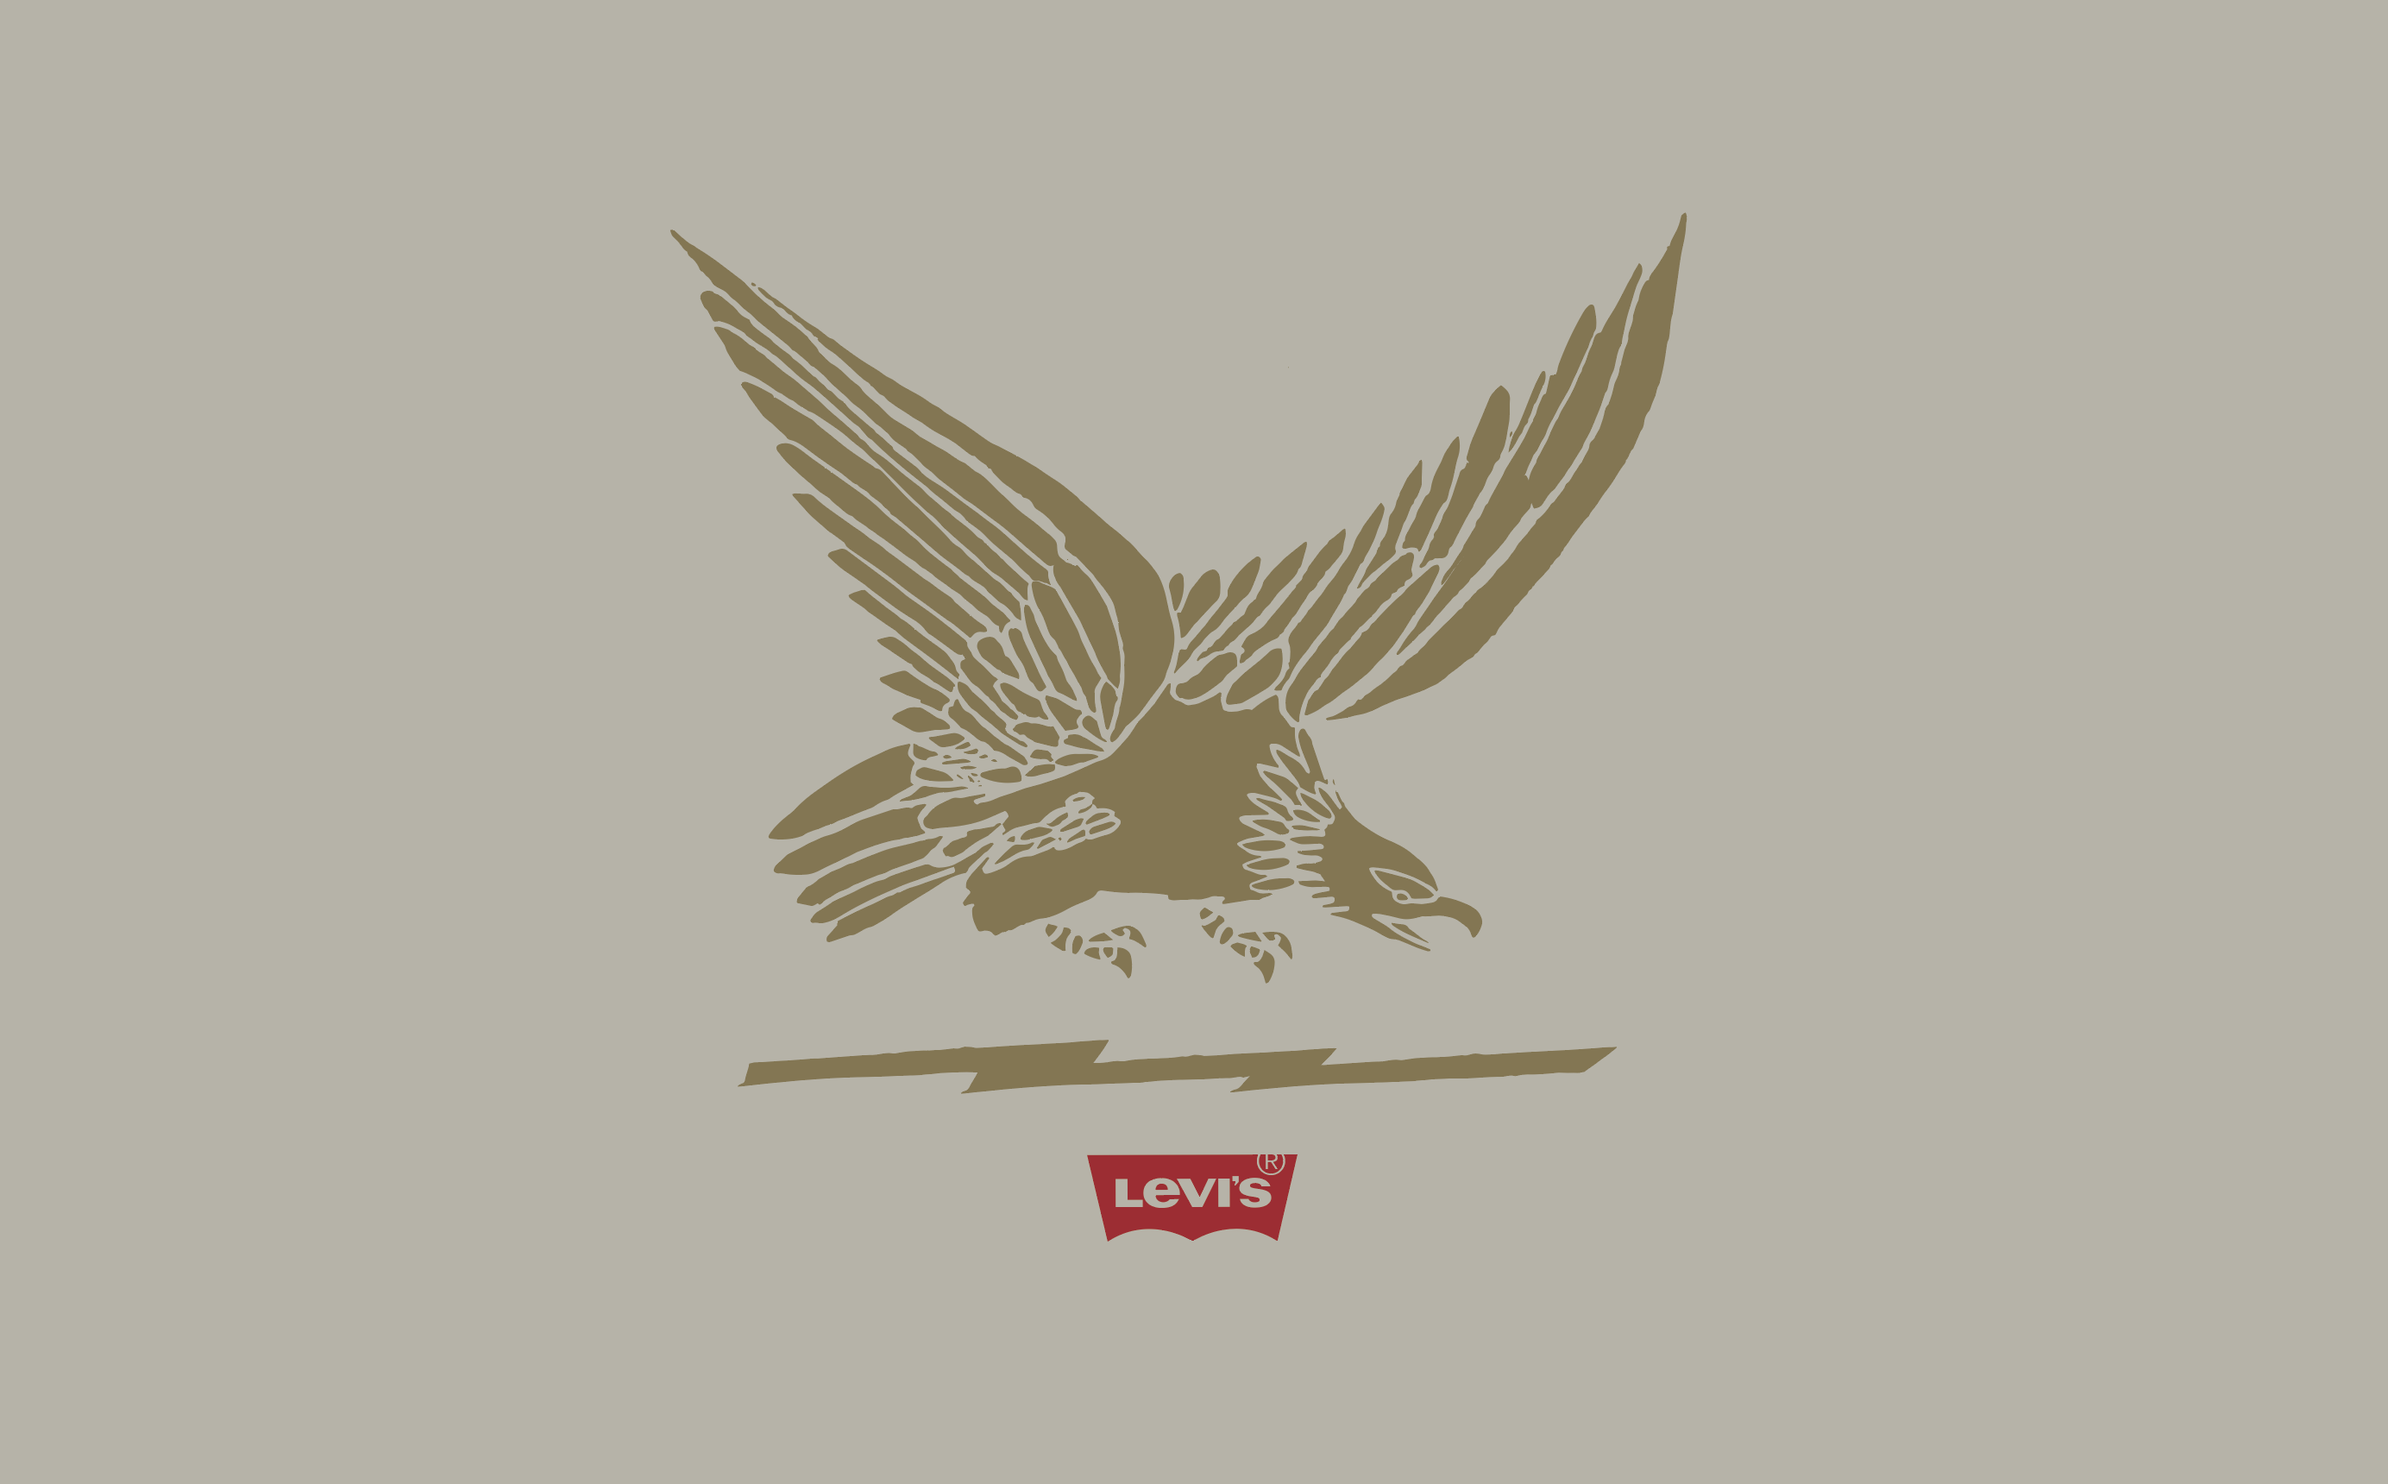
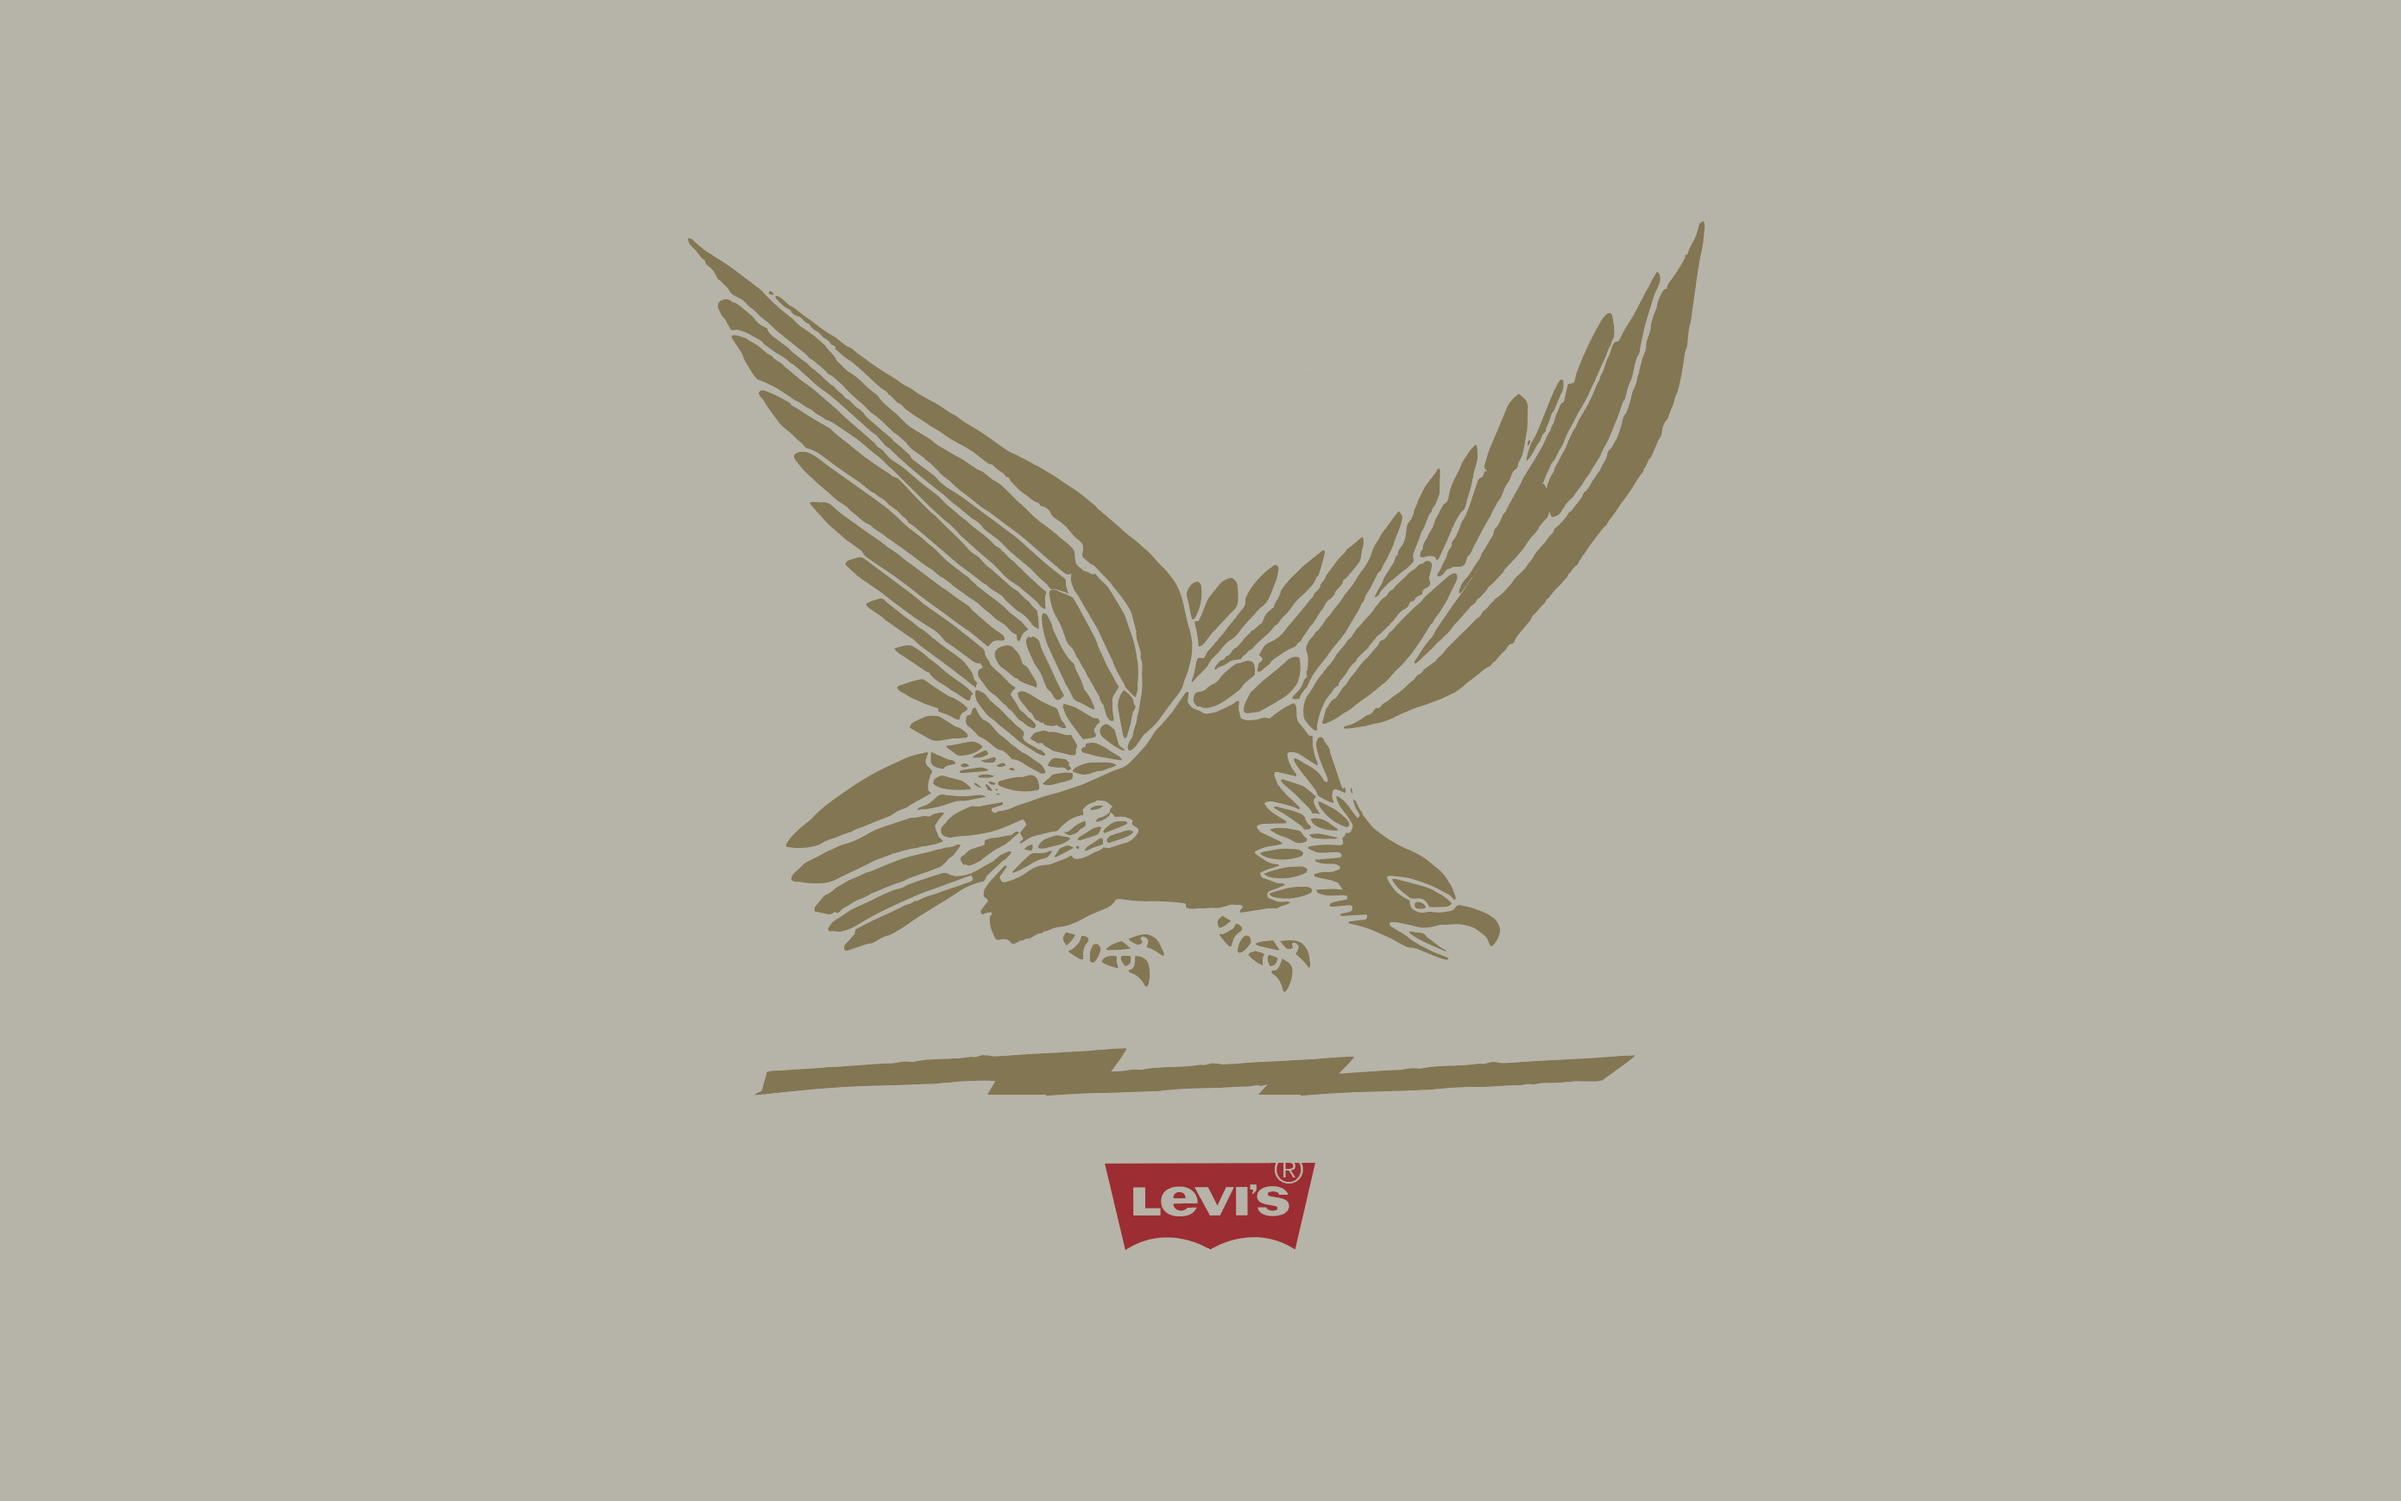
Polish Levi’s case study image stack and eagle mark framing.
Drop the cafe racer line study, put the eagle mark last at matching full-bleed size, and keep the set at seven pieces.

diff --git a/src/app/data/caseStudies/levisInstrument.ts b/src/app/data/caseStudies/levisInstrument.ts
@@ -5,7 +5,6 @@ import levisEagleBoltImage from '../../../assets/levis-eagle-bolt.png';
 import levisRivetedImage from '../../../assets/levis-original-riveted.png';
 import levisDenimSupplyImage from '../../../assets/levis-denim-supply-co.png';
 import levisRiderImage from '../../../assets/levis-rider-graphic.png';
-import levisCafeRacerImage from '../../../assets/levis-cafe-racer.png';
 import levisClassicCarImage from '../../../assets/levis-classic-car.png';
 
 /** Instrument-style narrative for Levi’s visual work (same shell as Quiksilver). */
@@ -73,8 +72,8 @@ export const levisInstrument: CaseStudyInstrumentContent = {
       parallaxSpeed: '0',
     },
     {
-      src: levisCafeRacerImage,
-      alt: 'Low-contrast line illustration of a cafe racer motorcycle on a dark field',
+      src: levisClassicCarImage,
+      alt: 'Low-contrast illustration of a vintage fastback muscle car on a dark field',
       padded: true,
       background: 'page',
       objectFit: 'contain',
@@ -83,14 +82,6 @@ export const levisInstrument: CaseStudyInstrumentContent = {
     {
       src: levisEagleBoltImage,
       alt: 'Levi’s eagle illustration over a jagged bolt line with red batwing logo on a light field',
-      padded: true,
-      background: 'page',
-      objectFit: 'contain',
-      parallaxSpeed: '0',
-    },
-    {
-      src: levisClassicCarImage,
-      alt: 'Low-contrast illustration of a vintage fastback muscle car on a dark field',
       padded: true,
       background: 'page',
       objectFit: 'contain',

diff --git a/src/app/components/case-study/SelectedVisualWorkPage.tsx b/src/app/components/case-study/SelectedVisualWorkPage.tsx
@@ -12,7 +12,6 @@ import levisEagleBoltImage from '../../../assets/levis-eagle-bolt.png';
 import levisRivetedImage from '../../../assets/levis-original-riveted.png';
 import levisDenimSupplyImage from '../../../assets/levis-denim-supply-co.png';
 import levisRiderImage from '../../../assets/levis-rider-graphic.png';
-import levisCafeRacerImage from '../../../assets/levis-cafe-racer.png';
 import levisClassicCarImage from '../../../assets/levis-classic-car.png';
 
 type GalleryItem = {
@@ -54,9 +53,9 @@ const gallery: GalleryItem[] = [
     subtitle: "Levi’s",
   },
   {
-    src: levisCafeRacerImage,
-    alt: 'Low-contrast line illustration of a cafe racer motorcycle on a dark field',
-    title: 'Cafe racer',
+    src: levisClassicCarImage,
+    alt: 'Low-contrast illustration of a vintage fastback muscle car on a dark field',
+    title: 'Fastback',
     subtitle: 'Line study',
   },
   {
@@ -64,12 +63,6 @@ const gallery: GalleryItem[] = [
     alt: 'Levi’s eagle illustration over a jagged bolt line with red batwing logo on a light field',
     title: 'Eagle mark',
     subtitle: "Levi’s",
-  },
-  {
-    src: levisClassicCarImage,
-    alt: 'Low-contrast illustration of a vintage fastback muscle car on a dark field',
-    title: 'Fastback',
-    subtitle: 'Line study',
   },
 ];
 

diff --git a/src/app/data/caseStudies/levis.ts b/src/app/data/caseStudies/levis.ts
@@ -25,7 +25,7 @@ export const levisContent: CaseStudyContent = {
     heading: 'Work',
     sectionLabel: 'Campaign',
     metrics: [
-      { value: '8', label: 'Pieces' },
+      { value: '7', label: 'Pieces' },
       { value: 'Print', label: 'Primary medium' },
       { value: 'Heritage', label: 'Brand system' },
     ],
@@ -33,7 +33,7 @@ export const levisContent: CaseStudyContent = {
   impact: {
     heading: 'Work',
     metrics: [
-      { value: '8', label: 'Pieces' },
+      { value: '7', label: 'Pieces' },
       { value: 'Print', label: 'Primary medium' },
       { value: 'Heritage', label: 'Brand system' },
     ],
